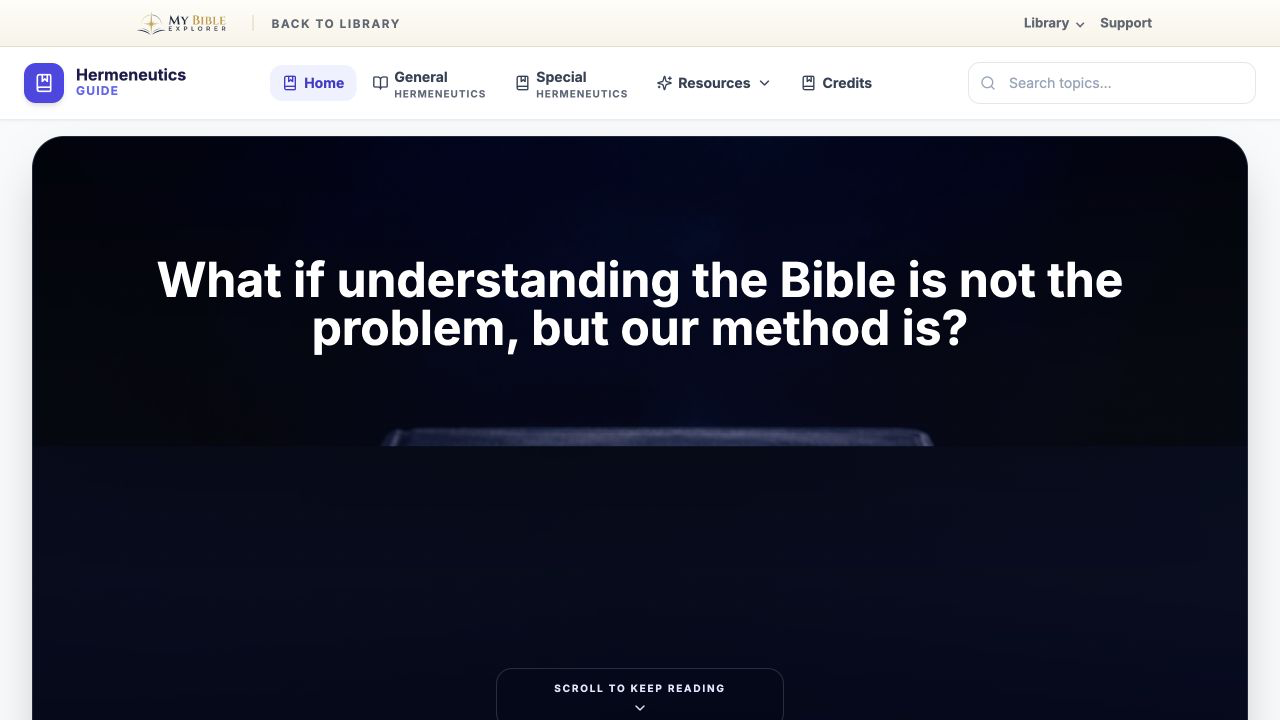
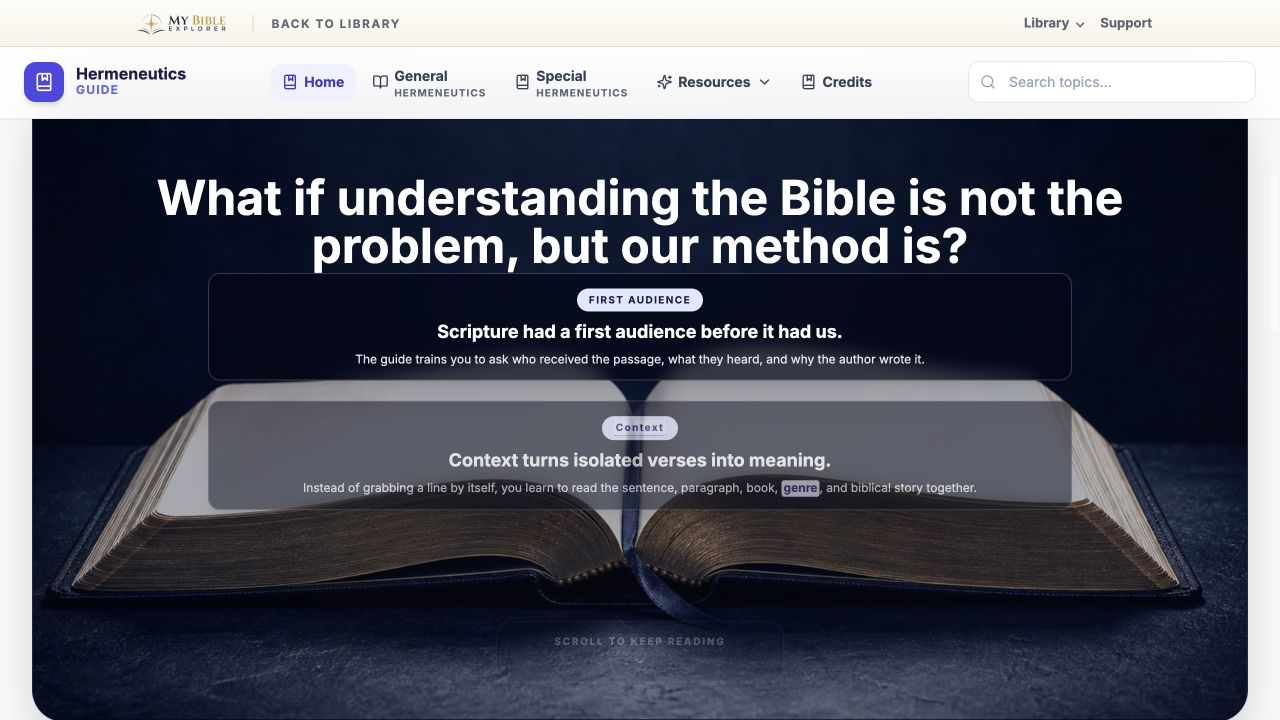
commit

diff --git a/index.html b/index.html
@@ -387,7 +387,7 @@
 <header class="site-header">
   <div class="wrap">
     <a class="brand-link" href="#top" aria-label="My Bible Explorer home">
-      <img src="assets/my-bible-explorer-logo.png" alt="My Bible Explorer">
+      <img src="assets/my-bible-explorer-logo.png?v=mbe-20260715-1" alt="My Bible Explorer" width="107" height="34">
     </a>
     <nav class="site-nav" aria-label="My Bible Explorer sections">
       <a href="#crisis">The Need</a>
@@ -401,14 +401,14 @@
  
 <header class="hero" id="top">
   <div class="hero-collage" aria-hidden="true">
-    <div class="hero-shot"><img src="screenshots/hermeneutics.png?v=overview3" alt=""></div>
-    <div class="hero-shot"><img src="screenshots/psalms.png?v=overview3" alt=""></div>
+    <div class="hero-shot"><img src="screenshots/hermeneutics.png?v=overview8" alt=""></div>
+    <div class="hero-shot"><img src="screenshots/psalms.png?v=overview8" alt=""></div>
     <div class="hero-shot"><img src="screenshots/parables.png?v=overview3" alt=""></div>
     <div class="hero-shot"><img src="screenshots/romans.png?v=overview6" alt=""></div>
     <div class="hero-shot"><img src="screenshots/sanctuary.png?v=overview7" alt=""></div>
     <div class="hero-shot"><img src="screenshots/daniel.png?v=overview3" alt=""></div>
     <div class="hero-shot"><img src="screenshots/revelation.png?v=overview5" alt=""></div>
-    <div class="hero-shot"><img src="screenshots/lastdayevents.png?v=overview3" alt=""></div>
+    <div class="hero-shot"><img src="screenshots/lastdayevents.png?v=overview8" alt=""></div>
     <div class="hero-shot"><img src="screenshots/isaiah.png?v=overview5" alt=""></div>
     <div class="hero-shot"><img src="screenshots/christ.png?v=overview3" alt=""></div>
     <div class="hero-shot"><img src="screenshots/corinthians.png?v=overview6" alt=""></div>
@@ -442,13 +442,23 @@
       <!-- SET A -->
       <a class="frame" href="https://hermeneutics.mybibleexplorer.com" target="_blank" rel="noopener noreferrer">
         <div class="chrome"><span class="dots"><i></i><i></i><i></i></span><span class="addr">hermeneutics.mybibleexplorer.com</span></div>
-        <div class="shot s-herm"><img src="screenshots/hermeneutics.png?v=overview3" alt="Interpreting the Bible" onerror="this.remove()" onload="this.parentNode.classList.add('has-img')"><h4>Start with the basics</h4><p>Learn how to read carefully.</p></div>
+        <div class="shot s-herm"><img src="screenshots/hermeneutics.png?v=overview8" alt="Interpreting the Bible" onerror="this.remove()" onload="this.parentNode.classList.add('has-img')"><h4>Start with the basics</h4><p>Learn how to read carefully.</p></div>
         <div class="cap"><div class="nm">Interpreting the Bible</div><div class="vt">A simple method for any passage</div></div>
       </a>
       <a class="frame" href="https://psalms.mybibleexplorer.com" target="_blank" rel="noopener noreferrer">
         <div class="chrome"><span class="dots"><i></i><i></i><i></i></span><span class="addr">psalms.mybibleexplorer.com</span></div>
-        <div class="shot s-psalm"><img src="screenshots/psalms.png?v=overview3" alt="The Psalms" onerror="this.remove()" onload="this.parentNode.classList.add('has-img')"><h4>Pray with the Psalms</h4><p>Bring your whole heart to God.</p></div>
+        <div class="shot s-psalm"><img src="screenshots/psalms.png?v=overview8" alt="The Psalms" onerror="this.remove()" onload="this.parentNode.classList.add('has-img')"><h4>Pray with the Psalms</h4><p>Bring your whole heart to God.</p></div>
         <div class="cap"><div class="nm">The Psalms</div><div class="vt">Words for joy, grief, and trust</div></div>
+      </a>
+      <a class="frame" href="https://sanctuary.mybibleexplorer.com/#structure" target="_blank" rel="noopener noreferrer">
+        <div class="chrome"><span class="dots"><i></i><i></i><i></i></span><span class="addr">sanctuary.mybibleexplorer.com</span></div>
+        <div class="shot s-sanc"><img src="screenshots/sanctuary.png?v=overview7" alt="The Sanctuary" onerror="this.remove()" onload="this.parentNode.classList.add('has-img')"><h4>Explore the Sanctuary</h4><p>See the gospel in symbols.</p></div>
+        <div class="cap"><div class="nm">The Sanctuary</div><div class="vt">God's plan pictured in detail</div></div>
+      </a>
+      <a class="frame" href="https://lastdayevents.mybibleexplorer.com/index.html" target="_blank" rel="noopener noreferrer">
+        <div class="chrome"><span class="dots"><i></i><i></i><i></i></span><span class="addr">lastdayevents.mybibleexplorer.com</span></div>
+        <div class="shot s-last"><img src="screenshots/lastdayevents.png?v=overview8" alt="Last Day Events" onerror="this.remove()" onload="this.parentNode.classList.add('has-img')"><h4>Follow the final events</h4><p>Clarity without fear.</p></div>
+        <div class="cap"><div class="nm">Last Day Events</div><div class="vt">Hope and readiness for what comes next</div></div>
       </a>
       <a class="frame" href="https://parables.mybibleexplorer.com" target="_blank" rel="noopener noreferrer">
         <div class="chrome"><span class="dots"><i></i><i></i><i></i></span><span class="addr">parables.mybibleexplorer.com</span></div>
@@ -490,26 +500,26 @@
         <div class="shot s-christ"><img src="screenshots/christ.png?v=overview3" alt="The Life of Christ" onerror="this.remove()" onload="this.parentNode.classList.add('has-img')"><h4>Follow the life of Jesus</h4><p>From Bethlehem to the empty tomb.</p></div>
         <div class="cap"><div class="nm">The Life of Christ</div><div class="vt">An illustrated scene-by-scene chronicle</div></div>
       </a>
-      <a class="frame" href="https://sanctuary.mybibleexplorer.com/#structure" target="_blank" rel="noopener noreferrer">
-        <div class="chrome"><span class="dots"><i></i><i></i><i></i></span><span class="addr">sanctuary.mybibleexplorer.com</span></div>
-        <div class="shot s-sanc"><img src="screenshots/sanctuary.png?v=overview7" alt="The Sanctuary" onerror="this.remove()" onload="this.parentNode.classList.add('has-img')"><h4>Explore the Sanctuary</h4><p>See the gospel in symbols.</p></div>
-        <div class="cap"><div class="nm">The Sanctuary</div><div class="vt">God's plan pictured in detail</div></div>
-      </a>
-      <a class="frame" href="https://lastdayevents.mybibleexplorer.com/index.html" target="_blank" rel="noopener noreferrer">
-        <div class="chrome"><span class="dots"><i></i><i></i><i></i></span><span class="addr">lastdayevents.mybibleexplorer.com</span></div>
-        <div class="shot s-last"><img src="screenshots/lastdayevents.png?v=overview3" alt="Last Day Events" onerror="this.remove()" onload="this.parentNode.classList.add('has-img')"><h4>Follow the final events</h4><p>Clarity without fear.</p></div>
-        <div class="cap"><div class="nm">Last Day Events</div><div class="vt">Hope and readiness for what comes next</div></div>
-      </a>
       <!-- SET B (duplicate for seamless loop) -->
       <a class="frame" href="https://hermeneutics.mybibleexplorer.com" target="_blank" rel="noopener noreferrer" aria-hidden="true" tabindex="-1">
         <div class="chrome"><span class="dots"><i></i><i></i><i></i></span><span class="addr">hermeneutics.mybibleexplorer.com</span></div>
-        <div class="shot s-herm"><img src="screenshots/hermeneutics.png?v=overview3" alt="Interpreting the Bible" onerror="this.remove()" onload="this.parentNode.classList.add('has-img')"><h4>Start with the basics</h4><p>Learn how to read carefully.</p></div>
+        <div class="shot s-herm"><img src="screenshots/hermeneutics.png?v=overview8" alt="Interpreting the Bible" onerror="this.remove()" onload="this.parentNode.classList.add('has-img')"><h4>Start with the basics</h4><p>Learn how to read carefully.</p></div>
         <div class="cap"><div class="nm">Interpreting the Bible</div><div class="vt">A simple method for any passage</div></div>
       </a>
       <a class="frame" href="https://psalms.mybibleexplorer.com" target="_blank" rel="noopener noreferrer" aria-hidden="true" tabindex="-1">
         <div class="chrome"><span class="dots"><i></i><i></i><i></i></span><span class="addr">psalms.mybibleexplorer.com</span></div>
-        <div class="shot s-psalm"><img src="screenshots/psalms.png?v=overview3" alt="The Psalms" onerror="this.remove()" onload="this.parentNode.classList.add('has-img')"><h4>Pray with the Psalms</h4><p>Bring your whole heart to God.</p></div>
+        <div class="shot s-psalm"><img src="screenshots/psalms.png?v=overview8" alt="The Psalms" onerror="this.remove()" onload="this.parentNode.classList.add('has-img')"><h4>Pray with the Psalms</h4><p>Bring your whole heart to God.</p></div>
         <div class="cap"><div class="nm">The Psalms</div><div class="vt">Words for joy, grief, and trust</div></div>
+      </a>
+      <a class="frame" href="https://sanctuary.mybibleexplorer.com/#structure" target="_blank" rel="noopener noreferrer" aria-hidden="true" tabindex="-1">
+        <div class="chrome"><span class="dots"><i></i><i></i><i></i></span><span class="addr">sanctuary.mybibleexplorer.com</span></div>
+        <div class="shot s-sanc"><img src="screenshots/sanctuary.png?v=overview7" alt="The Sanctuary" onerror="this.remove()" onload="this.parentNode.classList.add('has-img')"><h4>Explore the Sanctuary</h4><p>See the gospel in symbols.</p></div>
+        <div class="cap"><div class="nm">The Sanctuary</div><div class="vt">God's plan pictured in detail</div></div>
+      </a>
+      <a class="frame" href="https://lastdayevents.mybibleexplorer.com/index.html" target="_blank" rel="noopener noreferrer" aria-hidden="true" tabindex="-1">
+        <div class="chrome"><span class="dots"><i></i><i></i><i></i></span><span class="addr">lastdayevents.mybibleexplorer.com</span></div>
+        <div class="shot s-last"><img src="screenshots/lastdayevents.png?v=overview8" alt="Last Day Events" onerror="this.remove()" onload="this.parentNode.classList.add('has-img')"><h4>Follow the final events</h4><p>Clarity without fear.</p></div>
+        <div class="cap"><div class="nm">Last Day Events</div><div class="vt">Hope and readiness for what comes next</div></div>
       </a>
       <a class="frame" href="https://parables.mybibleexplorer.com" target="_blank" rel="noopener noreferrer" aria-hidden="true" tabindex="-1">
         <div class="chrome"><span class="dots"><i></i><i></i><i></i></span><span class="addr">parables.mybibleexplorer.com</span></div>
@@ -550,16 +560,6 @@
         <div class="chrome"><span class="dots"><i></i><i></i><i></i></span><span class="addr">christ.mybibleexplorer.com</span></div>
         <div class="shot s-christ"><img src="screenshots/christ.png?v=overview3" alt="The Life of Christ" onerror="this.remove()" onload="this.parentNode.classList.add('has-img')"><h4>Follow the life of Jesus</h4><p>From Bethlehem to the empty tomb.</p></div>
         <div class="cap"><div class="nm">The Life of Christ</div><div class="vt">An illustrated scene-by-scene chronicle</div></div>
-      </a>
-      <a class="frame" href="https://sanctuary.mybibleexplorer.com/#structure" target="_blank" rel="noopener noreferrer" aria-hidden="true" tabindex="-1">
-        <div class="chrome"><span class="dots"><i></i><i></i><i></i></span><span class="addr">sanctuary.mybibleexplorer.com</span></div>
-        <div class="shot s-sanc"><img src="screenshots/sanctuary.png?v=overview7" alt="The Sanctuary" onerror="this.remove()" onload="this.parentNode.classList.add('has-img')"><h4>Explore the Sanctuary</h4><p>See the gospel in symbols.</p></div>
-        <div class="cap"><div class="nm">The Sanctuary</div><div class="vt">God's plan pictured in detail</div></div>
-      </a>
-      <a class="frame" href="https://lastdayevents.mybibleexplorer.com/index.html" target="_blank" rel="noopener noreferrer" aria-hidden="true" tabindex="-1">
-        <div class="chrome"><span class="dots"><i></i><i></i><i></i></span><span class="addr">lastdayevents.mybibleexplorer.com</span></div>
-        <div class="shot s-last"><img src="screenshots/lastdayevents.png?v=overview3" alt="Last Day Events" onerror="this.remove()" onload="this.parentNode.classList.add('has-img')"><h4>Follow the final events</h4><p>Clarity without fear.</p></div>
-        <div class="cap"><div class="nm">Last Day Events</div><div class="vt">Hope and readiness for what comes next</div></div>
       </a>
     </div>
   </div>
@@ -799,7 +799,7 @@
  
 <footer class="mbe-global-footer" data-tool="library">
   <div class="mbe-shell-wrap mbe-footer-wrap">
-    <a class="mbe-footer-brand" href="https://mybibleexplorer.com" aria-label="My Bible Explorer home"><img class="mbe-footer-logo" src="assets/my-bible-explorer-logo.png" alt="My Bible Explorer"></a>
+    <a class="mbe-footer-brand" href="https://mybibleexplorer.com" aria-label="My Bible Explorer home"><img class="mbe-footer-logo" src="assets/my-bible-explorer-logo.png?v=mbe-20260715-1" alt="My Bible Explorer" width="107" height="34"></a>
     <span>Know the Word. Live the Word.</span>
     <span>To contact, email <a class="mbe-footer-link" href="mailto:[email redacted]">[email redacted]</a></span>
     <a class="mbe-footer-link" href="#donate">Support</a>

diff --git a/global-shell.css b/global-shell.css
@@ -162,12 +162,16 @@ body.mbe-unified-page{--mbe-local-accent:var(--mbe-accent);}
 .mbe-library-panel{
   position:absolute;
   right:0;
-  top:calc(100% + 18px);
-  width:min(540px,calc(100vw - 32px));
+  top:calc(100% + 14px);
+  width:min(920px,calc(100vw - 32px));
+  max-height:calc(100vh - 96px);
+  overflow:auto;
+  overscroll-behavior:contain;
   padding:12px;
   border:1px solid var(--mbe-rule);
   border-radius:8px;
   background:#fff;
+  color:var(--mbe-ink);
   box-shadow:0 24px 50px -34px rgba(11,31,58,.55);
 }
 
@@ -182,11 +186,12 @@ body.mbe-unified-page{--mbe-local-accent:var(--mbe-accent);}
 
 .mbe-library-grid{
   display:grid;
-  grid-template-columns:repeat(2,minmax(0,1fr));
+  grid-template-columns:repeat(3,minmax(0,1fr));
   gap:6px;
 }
 
 .mbe-library-item{
+  min-width:0;
   display:flex;
   flex-direction:column;
   gap:2px;
@@ -199,7 +204,7 @@ body.mbe-unified-page{--mbe-local-accent:var(--mbe-accent);}
 .mbe-library-item:hover{background:var(--mbe-soft);}
 .mbe-library-item[aria-current="page"]{background:rgba(201,164,76,.13);}
 .mbe-library-name{font-family:var(--mbe-font-display);font-size:1.02rem;font-weight:700;line-height:1.1;}
-.mbe-library-desc{color:var(--mbe-muted);font-size:.78rem;font-weight:500;line-height:1.35;}
+.mbe-library-desc{color:var(--mbe-muted);font-size:.78rem;font-weight:500;line-height:1.35;overflow-wrap:anywhere;}
 
 .mbe-tool-row{
   border-top:1px solid rgba(229,224,214,.78);